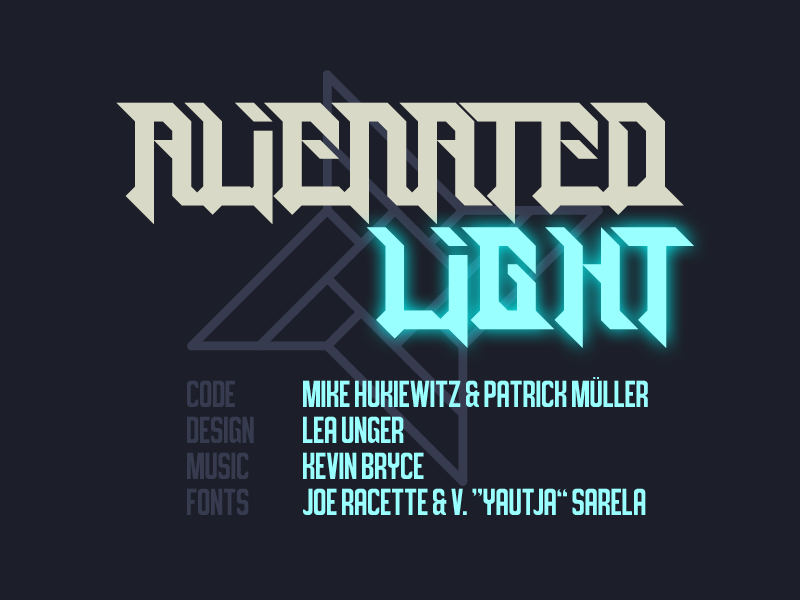
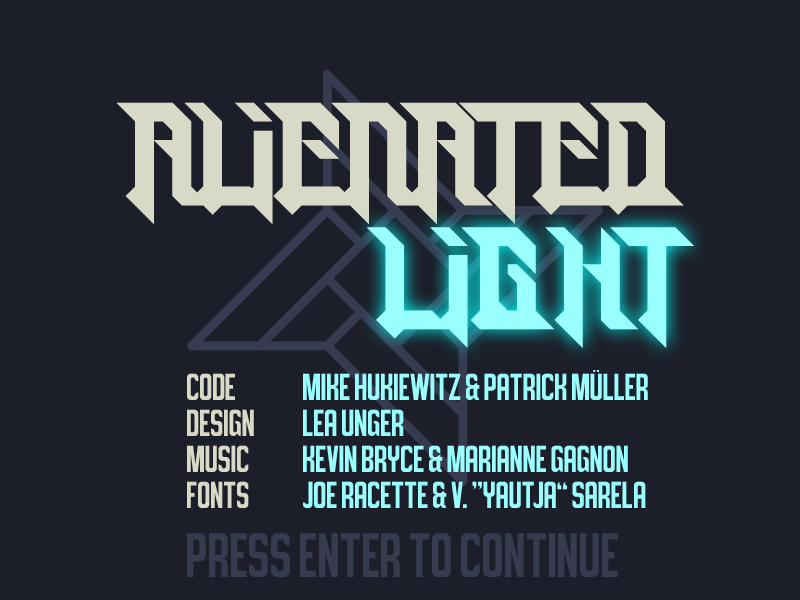
fixed this shit agian

Changed region(s): [[0.2188, 0.6, 0.8125, 0.96]]

diff --git a/core/src/com/mygdx/game/WinScreen.java b/core/src/com/mygdx/game/WinScreen.java
@@ -1,0 +1,70 @@
+package com.mygdx.game;
+
+import com.badlogic.gdx.Gdx;
+import com.badlogic.gdx.Input;
+import com.badlogic.gdx.Screen;
+import com.badlogic.gdx.graphics.Texture;
+import com.badlogic.gdx.graphics.g2d.SpriteBatch;
+
+/**
+ * Created by floatec on 2/26/15.
+ */
+public class WinScreen implements Screen {
+    Meteorstorm game;
+    SpriteBatch batch;
+    Texture texture;
+    Texture load;
+    boolean start =false;
+
+    public WinScreen(Meteorstorm game){
+        this.game=game;
+
+    }
+
+    @Override
+    public void show() {
+        this.texture = new Texture(Gdx.files.internal("screens/congrats.jpg"));
+    }
+
+    @Override
+    public void render(float delta) {
+        if(start){
+            Gdx.app.exit();
+        }else {
+            if (Gdx.input.isKeyPressed(Input.Keys.ENTER)) {
+                start = true;
+            }
+            batch = new SpriteBatch();
+            batch.begin();
+            batch.draw( texture, 0, 0);
+
+            batch.end();
+        }
+
+    }
+
+    @Override
+    public void resize(int width, int height) {
+
+    }
+
+    @Override
+    public void pause() {
+
+    }
+
+    @Override
+    public void resume() {
+
+    }
+
+    @Override
+    public void hide() {
+
+    }
+
+    @Override
+    public void dispose() {
+
+    }
+}

diff --git a/core/src/com/mygdx/game/MyMap.java b/core/src/com/mygdx/game/MyMap.java
@@ -17,8 +17,8 @@ import java.util.Map;
 public class MyMap {
     public TiledMap map;
 	public static final int TILESIZE = 32;
-	public static final int MAPHEIGHT = 30;
-	public static final int MAPWIDTH = 40;
+	public static final int MAPHEIGHT = 40;
+	public static final int MAPWIDTH = 70;
 
     TiledMapTileLayer groudLayer;
     public Map<Vector2,Door> doors = new HashMap<Vector2,Door>();
@@ -30,7 +30,7 @@ public class MyMap {
         for (int i = 0; i < MAPWIDTH; i++) {
             for (int j = 0; j < MAPHEIGHT; j++) {
                 TiledMapTileLayer.Cell cell = groudLayer.getCell(i, j);
-                if(cell.getTile().getProperties().get("DOOR")!=null) {
+                if(cell!=null&&cell.getTile().getProperties().get("DOOR")!=null) {
                     doors.put(new Vector2(i,j),new Door(((String) cell.getTile().getProperties().get("OPEN")).equals("1"),
                             Integer.parseInt((String)cell.getTile().getProperties().get("DIRECTION")),((String) cell.getTile().getProperties().get("OPEN")).equals("-1")));
                 }
